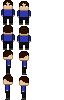
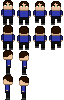
added front and back move animations and worked around GLFW's inability to distinguish a key simply not being pressed and a key being released (these are actually different things)

Changed region(s): [[0.5, 0.0, 1.0, 0.51]]

diff --git a/src/main.cpp b/src/main.cpp
@@ -4,6 +4,7 @@
 #include <engine/texturemgr.h>
 #include <engine/sprite.h>
 #include <engine/animation.h>
+#include <engine/keyboard.h>
 
 #include <stdio.h>
 
@@ -32,62 +33,64 @@ void framebuffer_size_callback(GLFWwindow* window, int w, int h) {
 void handleInput() {
     glfwPollEvents();
 
-    if(glfwGetKey(window, GLFW_KEY_ESCAPE) == GLFW_PRESS) {
+    if (Keyboard::isKeyPressed(window, GLFW_KEY_ESCAPE)) {
         glfwSetWindowShouldClose(window, true);
     }
 
-    if (glfwGetKey(window, GLFW_KEY_W) == GLFW_PRESS) {
+    if (Keyboard::isKeyPressed(window, GLFW_KEY_W)) {
         if (playerDir != 1) {
-            player->setAnimation("back_still");
             playerDir = 1;
         }
+        player->setAnimation("back_walk");
         playerMoving = true;
     }
 
-    if (glfwGetKey(window, GLFW_KEY_S) == GLFW_PRESS) {
+    if (Keyboard::isKeyPressed(window, GLFW_KEY_S)) {
         if (playerDir != 0) {
-            player->setAnimation("front_still");
             playerDir = 0;
         }
+        player->setAnimation("front_walk");
         playerMoving = true;
     }
 
-    if (glfwGetKey(window, GLFW_KEY_A) == GLFW_PRESS) {
+    if (Keyboard::isKeyPressed(window, GLFW_KEY_A)) {
         if (playerDir != 2) {
-            player->setAnimation("left_still");
             playerDir = 2;
         }
         playerMoving = true;
     }
 
-    if (glfwGetKey(window, GLFW_KEY_D) == GLFW_PRESS) {
+    if (Keyboard::isKeyPressed(window, GLFW_KEY_D)) {
         if (playerDir != 3) {
-            player->setAnimation("right_still");
             playerDir = 3;
         }
         playerMoving = true;
     }
 
-    if (glfwGetKey(window, GLFW_KEY_W) == GLFW_RELEASE) {
+    if (Keyboard::isKeyReleased(window, GLFW_KEY_W)) {
         if (playerDir == 1) {
+            player->setAnimation("back_still");
             playerMoving = false;
         }
     }
 
-    if (glfwGetKey(window, GLFW_KEY_S) == GLFW_RELEASE) {
+    if (Keyboard::isKeyReleased(window, GLFW_KEY_S)) {
         if (playerDir == 0) {
+            player->setAnimation("front_still");
             playerMoving = false;
         }
     }
 
-    if (glfwGetKey(window, GLFW_KEY_A) == GLFW_RELEASE) {
+    if (Keyboard::isKeyReleased(window, GLFW_KEY_A)) {
         if (playerDir == 2) {
+            player->setAnimation("left_still");
             playerMoving = false;
         }
     }
 
-    if (glfwGetKey(window, GLFW_KEY_D) == GLFW_RELEASE) {
+    if (Keyboard::isKeyReleased(window, GLFW_KEY_D)) {
         if (playerDir == 3) {
+            player->setAnimation("right_still");
             playerMoving = false;
         }
     }
@@ -155,25 +158,47 @@ int main() {
 
     player = new Sprite(0, 0);
     Animation frontStill("front_still");
-    frontStill.addFrame("player", 0, 0, 1, 1, 500);
-    frontStill.addFrame("player", 0, 1, 1, 2, 500);
+    frontStill.addFrame("player", 0, 0, 1, 1, 700);
+    frontStill.addFrame("player", 0, 1, 1, 2, 700);
 
     Animation backStill("back_still");
-    backStill.addFrame("player", 1, 0, 2, 1, 500);
-    backStill.addFrame("player", 1, 1, 2, 2, 500);
+    backStill.addFrame("player", 1, 0, 2, 1, 700);
+    backStill.addFrame("player", 1, 1, 2, 2, 700);
 
     Animation leftStill("left_still");
-    leftStill.addFrame("player", 3, 0, 4, 1, 500);
-    leftStill.addFrame("player", 3, 1, 4, 2, 500);
+    leftStill.addFrame("player", 3, 0, 4, 1, 700);
+    leftStill.addFrame("player", 3, 1, 4, 2, 700);
 
     Animation rightStill("right_still");
-    rightStill.addFrame("player", 2, 0, 3, 1, 500);
-    rightStill.addFrame("player", 2, 1, 3, 2, 500);
+    rightStill.addFrame("player", 2, 0, 3, 1, 700);
+    rightStill.addFrame("player", 2, 1, 3, 2, 700);
     
     player->addAnimation("front_still", frontStill);
     player->addAnimation("back_still", backStill);
     player->addAnimation("left_still", leftStill);
     player->addAnimation("right_still", rightStill);
+
+    Animation frontWalk("front_walk");
+    frontWalk.addFrame("player", 0, 2, 1, 3, 200);
+    frontWalk.addFrame("player", 0, 3, 1, 4, 200);
+
+    Animation backWalk("back_walk");
+    backWalk.addFrame("player", 1, 2, 2, 3, 200);
+    backWalk.addFrame("player", 1, 3, 2, 4, 200);
+
+    Animation leftWalk("left_walk");
+    leftWalk.addFrame("player", 3, 2, 4, 3, 200);
+    leftWalk.addFrame("player", 3, 3, 4, 4, 200);
+
+    Animation rightWalk("right_walk");
+    rightWalk.addFrame("player", 2, 2, 3, 3, 200);
+    rightWalk.addFrame("player", 2, 3, 3, 4, 200);
+
+    player->addAnimation("front_walk", frontWalk);
+    player->addAnimation("back_walk", backWalk);
+    player->addAnimation("left_walk", leftWalk);
+    player->addAnimation("right_walk", rightWalk);
+
     player->setAnimation("front_still");
 
     while (running) {

diff --git a/src/engine/sprite.cpp b/src/engine/sprite.cpp
@@ -28,12 +28,18 @@ void Sprite::draw(Camera camera, float scale) {
     lastUpdate = 1000*glfwGetTime();
     Animation animation = animations[currentAnimation];
     Frame currentFrameObj = animation.getFrame(currentFrame);
+    // printf("Number of frames %d\n", animation.getNumberOfFrames());
     if (timer >= currentFrameObj.duration) {
+        // printf("Timer up!\n");
         currentFrame++;
         timer = 0;
     }
+    // printf("Current frame %d\n", currentFrame);
+    // printf("Current duration %d\n", currentFrameObj.duration);
+
     if (currentFrame == animation.getNumberOfFrames()) {
         currentFrame = 0;
+        // printf("Resetting frame\n");
     }
     currentFrameObj = animation.getFrame(currentFrame);
 

diff --git a/src/engine/keyboard.cpp b/src/engine/keyboard.cpp
@@ -1,0 +1,21 @@
+#include <engine/keyboard.h>
+
+bool Keyboard::isKeyPressed(GLFWwindow* window, int key) {
+    if (glfwGetKey(window, key) == GLFW_PRESS) {
+        if (!keys[key]) {
+            keys[key] = true;
+            return true;
+        }
+    }
+    return false;
+}
+
+bool Keyboard::isKeyReleased(GLFWwindow* window, int key) {
+    if (glfwGetKey(window, key) == GLFW_RELEASE) {
+        if (keys[key]) {
+            keys[key] = false;
+            return true;
+        }
+    }
+    return false;
+}

diff --git a/include/engine/keyboard.h b/include/engine/keyboard.h
@@ -1,0 +1,16 @@
+#ifndef KEYBOARD_H
+#define KEYBOARD_H
+
+#include <GLFW/glfw3.h>
+
+#include <map>
+
+class Keyboard {
+    public:
+        static bool isKeyPressed(GLFWwindow* window, int key);
+        static bool isKeyReleased(GLFWwindow* window, int key);
+
+        inline static std::map<int, bool> keys;
+};
+
+#endif
